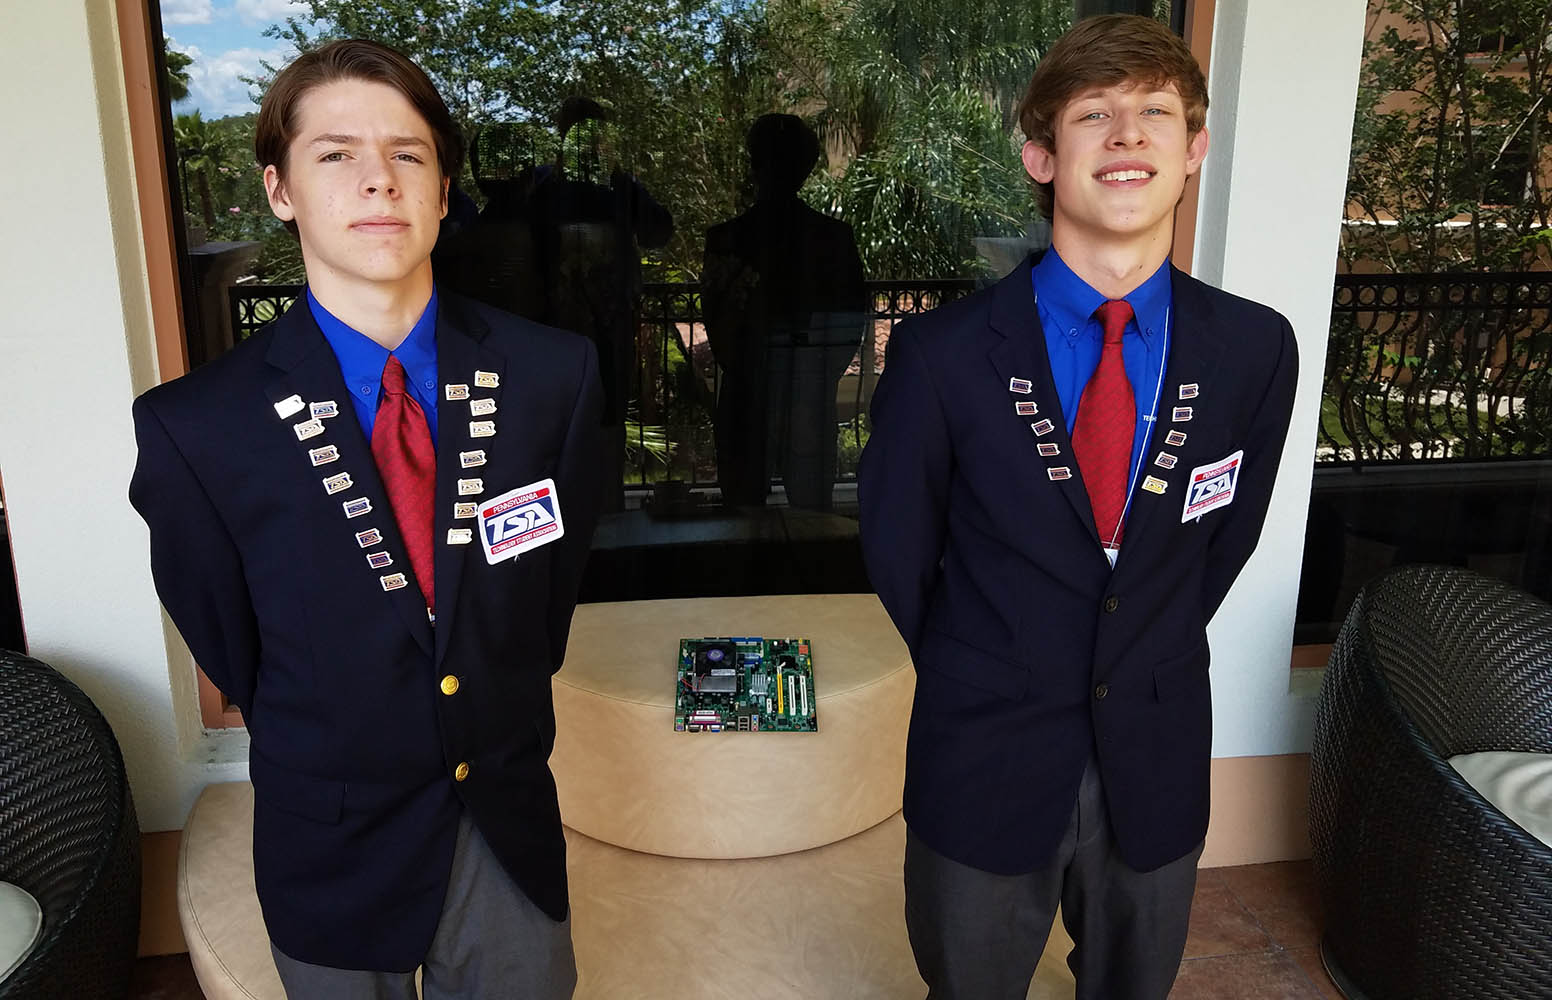
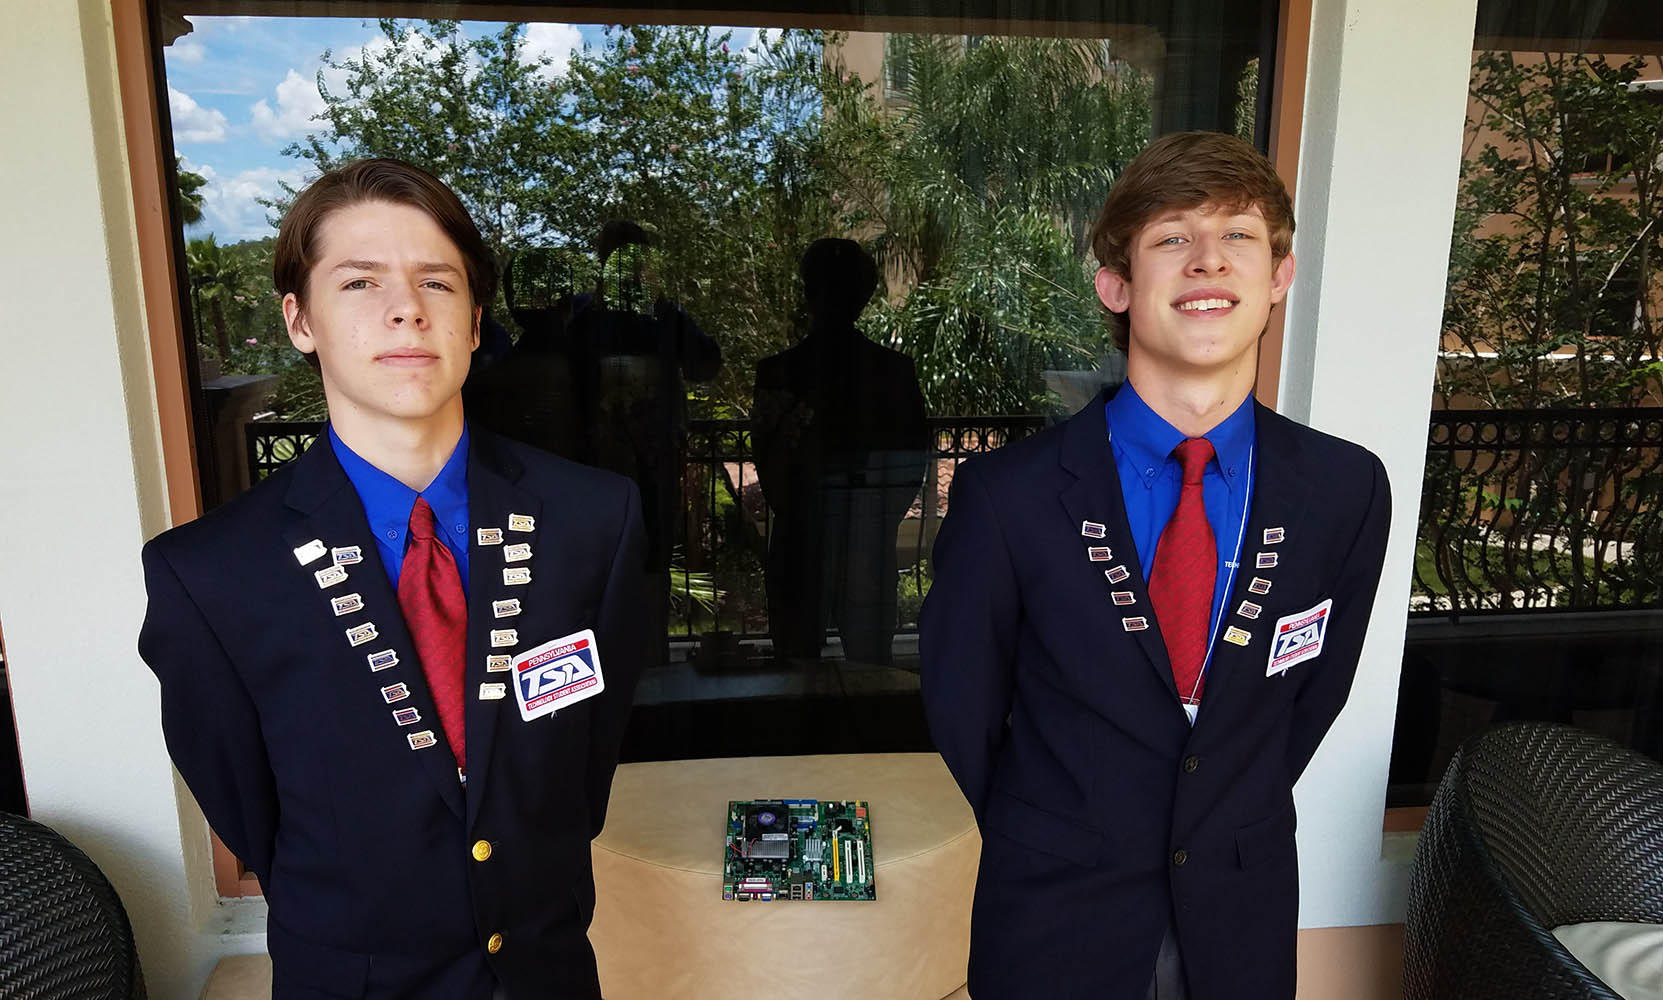
Done awards slider and captions
I am good at developing

diff --git a/mywork.html b/mywork.html
@@ -86,30 +86,58 @@
             <h1 class="work-section-header">My Awards and Recognition</h1><hr/>
             <div class="container">
                 <div id="awards-carousel" class="carousel slide" data-ride="carousel">
-                    <ul class="carousel-indicators">
-                        <li data-target="#awards-carousel" data-slide-to="0" class="active"></li>
-                        <li data-target="#awards-carousel" data-slide-to="1"></li>
-                        <li data-target="#awards-carousel" data-slide-to="2"></li>
-                        <li data-target="#awards-carousel" data-slide-to="3"></li>
-                        <li data-target="#awards-carousel" data-slide-to="4"></li>
-                    </ul>
+                    <div class="container position-relative">
+                        <ul class="carousel-indicators">
+                            <li data-target="#awards-carousel" data-slide-to="0" class="active"></li>
+                            <li data-target="#awards-carousel" data-slide-to="1"></li>
+                            <li data-target="#awards-carousel" data-slide-to="2"></li>
+                            <li data-target="#awards-carousel" data-slide-to="3"></li>
+                            <li data-target="#awards-carousel" data-slide-to="4"></li>
+                        </ul>
+                    </div>
                     <div class="carousel-inner">
                         <div class="carousel-item active">
-                            <img src="./img/psupres.jpg" alt="Recognition by Penn State president Erik Barron for Maverick Supply Chain Management System development"/>
-                        </div>
-                        <div class="carousel-item">
-                            <img src="./img/tsasoftware.jpg" alt="National award for software development at the 2017 Technology Student Association National Conference"/>
+                            <img src="./img/psupres.jpg" alt="Recognition by Penn State president Erik Barron for Maverick Supply Chain Management System development">
+                            <div class="carousel-caption">
+                                <h3>Penn State Start Up Week 2018</h3>
+                                <p>I was recognized along with my team for the development of Maverick Supply Chain Management System by Penn State president Erik Barron</p>
+                            </div>
                         </div>
                         <div class="carousel-item">
                             <img src="./img/psusupplychain.jpg" alt="Smeal College of Business Supply Chain competition finalist and award winner for the development of Maverick Supply Chain Management System"/>
+                            <div class="carousel-caption">
+                                <h3>Smeal College of Business Supply Chain Pitch Competition</h3>
+                                <p>My team and I finalized and were awarded $3000 to start Maverick Systems after pitching our ideas to industry professionals. I served as the project manager and lead developer on this team.</p>
+                            </div>
                         </div>
                         <div class="carousel-item">
                             <img src="./img/psuspeech.jpg" alt="Recognition at Penn State Start-up Week for leadership and development of Maverick Systems">
+                            <div class="carousel-caption">
+                                <h3>Penn State Start Up Week Gallery of Innovators</h3>
+                                <p>My work on Maverick Supply Chain Management System was recognized and demonstrated to several university and industry professionals as an outstanding piece of student work</p>
+                            </div>
+                        </div>
+                        <div class="carousel-item">
+                            <img src="./img/tsasoftware.jpg" alt="National award for software development at the 2017 Technology Student Association National Conference"/>
+                            <div class="carousel-caption">
+                                <h3>Technology Student Association National Conference 2017</h3>
+                                <p>My partner and I placed second in the United States in the TSA software development event for our development of the software system Napkinspace</p>
+                            </div>
                         </div>
                         <div class="carousel-item">
                             <img src="./img/tsaweb.jpg" alt="National finalist in website design at the 2017 Technology Student Association National Conference"/>
+                            <div class="carousel-caption">
+                                <h3>Technology Student Association National Conference 2017</h3>
+                                <p>My team and I placed fifth in the United States in the TSA website development event for our entry which represented our team, community, and school</p>
+                            </div>
                         </div>
                     </div>
+                    <a class="carousel-control-prev" href="#awards-carousel" data-slide="prev">
+                        <span class="carousel-control-prev-icon"></span>
+                    </a>
+                    <a class="carousel-control-next" href="#awards-carousel" data-slide="next">
+                        <span class="carousel-control-next-icon"></span>
+                    </a>
                 </div>
             </div>
         </div>

diff --git a/style/mywork-style.css b/style/mywork-style.css
@@ -89,7 +89,28 @@ hr{
 }
 .carousel-item img{
     width:100%;
+    height:500px;
+    object-fit:cover;
 }
 .carousel-inner{
     height:500px;
+}
+#awards-carousel{
+    height:500px;
+}
+.carousel-caption{
+    background-color: rgba(0,0,0,0.75);
+    width:100%;
+    left: 0;
+    bottom: 0;
+    padding-right: 25px;
+    padding-left: 25px;
+}
+.carousel-indicators{
+    top: 10px;
+}
+.carousel-indicators li{
+    border-radius:100%;
+    height: 15px;
+    width: 15px;
 }
